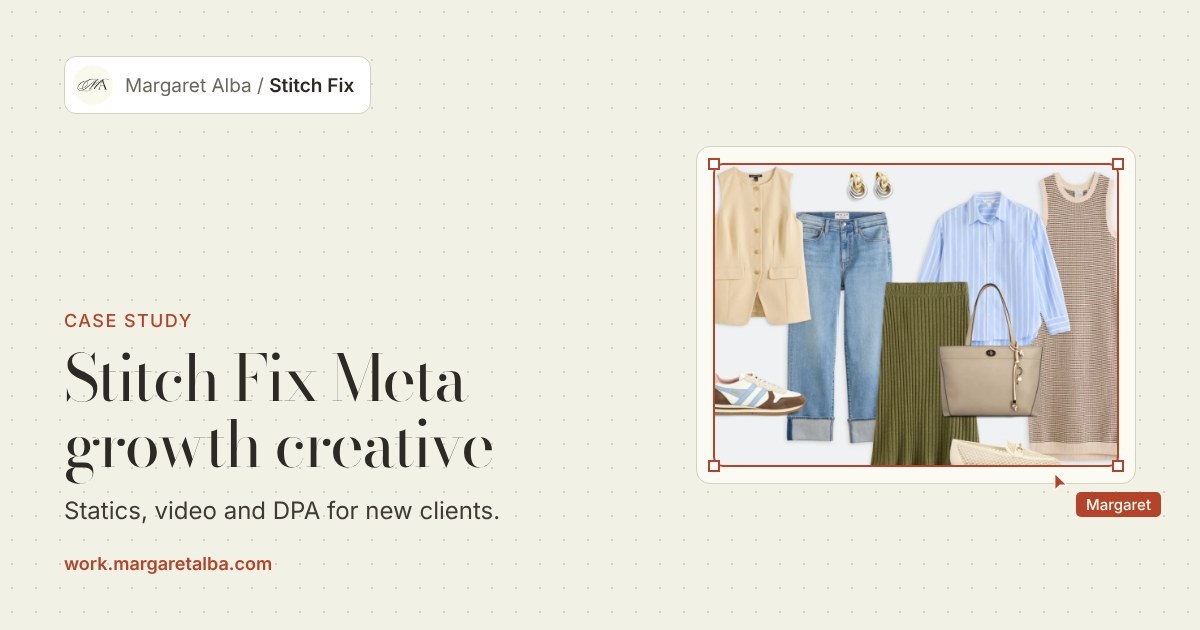
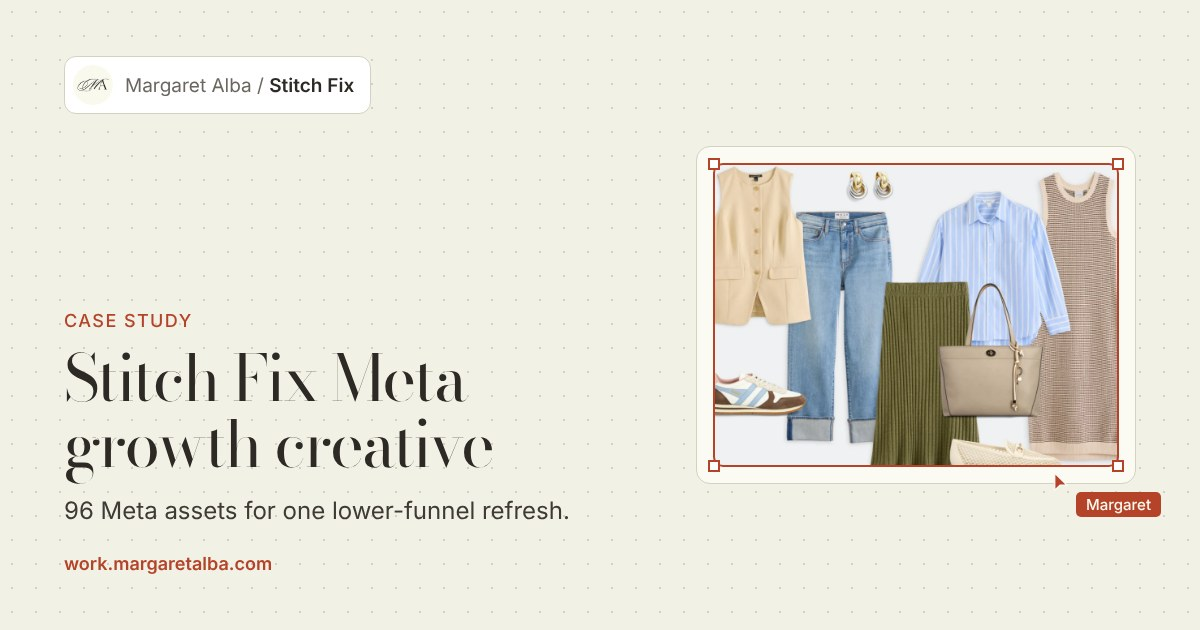
Stitch Fix: 96 assets, lower-funnel refresh, copywriter credit
Claude-Session: https://claude.ai/code/session_01Bp2y4MwKfvAmLHEs5SbnWi

Changed region(s): [[0.0617, 0.7841, 0.4625, 0.8444]]

diff --git a/stitch-fix-meta/index.html b/stitch-fix-meta/index.html
@@ -4,9 +4,9 @@
 <meta charset="utf-8">
 <meta name="viewport" content="width=device-width, initial-scale=1">
 <title>Stitch Fix Meta Growth Creative | Margaret Alba</title>
-<meta name="description" content="Static and video Meta ads, DPA and non-DPA assets for Stitch Fix.">
+<meta name="description" content="96 Meta assets refreshing Stitch Fix’s lower-funnel creative, static and animated, in 4:5 and 9:16.">
 <meta property="og:title" content="Stitch Fix Meta Growth Creative | Margaret Alba">
-<meta property="og:description" content="Static and video Meta ads, DPA and non-DPA assets for Stitch Fix.">
+<meta property="og:description" content="96 Meta assets refreshing Stitch Fix’s lower-funnel creative, static and animated, in 4:5 and 9:16.">
 <meta property="og:type" content="website">
 <link rel="canonical" href="https://work.margaretalba.com/stitch-fix-meta/">
 <meta property="og:url" content="https://work.margaretalba.com/stitch-fix-meta/">
@@ -88,7 +88,7 @@ div[style*="repeat(4,1fr)"]{grid-template-columns:repeat(2,1fr)!important}
 <div style="display:flex;flex-direction:column;gap:20px;max-width:820px">
 <div class="ey">Case study 02</div>
 <h1 class="bd" style="margin:0;font-size:72px;line-height:1.02;letter-spacing:-.03em">Stitch Fix Meta Growth Creative</h1>
-<p style="margin:0;font-size:22px;line-height:1.5;color:#3E3A34">Meta ads for Stitch Fix’s women’s and men’s lines, from statics and video to dynamic product ads. Everything shown here is from one campaign.</p>
+<p style="margin:0;font-size:22px;line-height:1.5;color:#3E3A34">I designed 96 Meta assets for one Stitch Fix campaign, refreshing the lower-funnel creative for the women’s and men’s lines.</p>
 </div>
 
 <div style="display:flex;flex-wrap:wrap;gap:56px;align-items:flex-start">
@@ -96,21 +96,22 @@ div[style*="repeat(4,1fr)"]{grid-template-columns:repeat(2,1fr)!important}
 <aside style="flex:0 0 240px;position:sticky;top:24px;display:flex;flex-direction:column;gap:28px;background:#fff;border:1px solid #D5D1C0;border-radius:12px;padding:16px">
 <div><div style="font-size:12px;font-weight:600;margin-bottom:8px">Layers</div><nav class="ly" aria-label="On this page" style="display:flex;flex-direction:column;gap:2px"><a class="on" href="#ch"><i></i>The challenge</a><a href="#ap"><i></i>The approach</a><a href="#wk"><i></i>What I made</a><a href="#ln"><i></i>What I learned</a></nav></div>
 <div style="border-top:1px solid #E5E1D0;padding-top:16px"><div style="font-size:12px;font-weight:600;margin-bottom:12px">Properties</div>
-<dl class="pr" style="margin:0;display:flex;flex-direction:column;gap:14px"><div><dt>Client</dt><dd>Stitch Fix</dd></div><div><dt>Responsible for</dt><dd>Meta DPA and non-DPA assets, social video and on-time delivery</dd></div><div><dt>Tools</dt><dd>Figma, After Effects</dd></div></dl></div>
+<dl class="pr" style="margin:0;display:flex;flex-direction:column;gap:14px"><div><dt>Client</dt><dd>Stitch Fix</dd></div><div><dt>Copywriter</dt><dd>Emily Saulnier</dd></div><div><dt>Responsible for</dt><dd>Meta DPA and non-DPA assets, social video and on-time delivery</dd></div><div><dt>Tools</dt><dd>Figma, After Effects</dd></div></dl></div>
 </aside>
 
 <main style="flex:1 1 560px;max-width:760px;display:flex;flex-direction:column;gap:80px">
 
-<section id="ch" style="display:flex;flex-direction:column;gap:14px"><div class="ey">The challenge</div><p class="p" style="font-size:20px">Stitch Fix is an online styling service. On Meta, the ads need to bring in new clients, speak to women and men differently and keep up with a busy promo calendar.</p></section>
+<section id="ch" style="display:flex;flex-direction:column;gap:14px"><div class="ey">The challenge</div><p class="p" style="font-size:20px">Stitch Fix is an online styling service. This campaign refreshed its lower-funnel Meta ads, the ones people see when they already know Stitch Fix and are close to signing up. The ads had to speak to women and men differently and keep up with a busy promo calendar.</p></section>
 
 <section id="ap" style="display:flex;flex-direction:column;gap:28px"><div class="ey">The approach</div>
 <div><div class="bd sh">One offer, always visible.</div><p class="p">New clients scroll fast. Keeping the same “$20 off your first Fix” badge on every ad means the offer lands even if someone only gives it a second.</p></div>
-<div><div class="bd sh">Different hooks, same offer.</div><p class="p">Different people stop scrolling for different reasons. Leading each ad with its own angle gives it a different way in, while the offer stays the same.</p></div>
+<div><div class="bd sh">Different hooks, same offer.</div><p class="p">Different people stop scrolling for different reasons, so each ad leads with its own angle while the offer stays the same. I worked with Stitch Fix copywriter Emily Saulnier, building a visual to match each of her lines.</p></div>
 <div><div class="bd sh">Speaking to each audience.</div><p class="p">Women and men shop differently, so their ads shouldn’t look the same. Each line gets visuals built around how that audience likes to see clothes.</p></div>
 <div><div class="bd sh">Keeping it on schedule.</div><p class="p">Promos don’t wait. I keep my work moving through reviews so every asset is ready by its launch date.</p></div>
 </section>
 
 <section id="wk" style="display:flex;flex-direction:column;gap:32px"><div class="ey">What I made</div>
+<div style="display:grid;grid-template-columns:repeat(auto-fit,minmax(200px,1fr));gap:16px"><div class="fm" style="background:#fff;display:flex;flex-direction:column;gap:4px;padding:22px 24px"><div class="bd" style="font-size:60px;line-height:1;color:#B54329">96</div><div style="font-size:14px;color:#6B665E">Meta assets in one campaign</div></div><div class="fm" style="background:#fff;display:flex;flex-direction:column;gap:4px;padding:22px 24px"><div class="bd" style="font-size:34px;line-height:60px;color:#B54329;white-space:nowrap">4:5 &amp; 9:16</div><div style="font-size:14px;color:#6B665E">Feed, Stories and Reels sizes</div></div><div class="fm" style="background:#fff;display:flex;flex-direction:column;gap:4px;padding:22px 24px"><div class="bd" style="font-size:34px;line-height:60px;color:#B54329;white-space:nowrap">+ Motion</div><div style="font-size:14px;color:#6B665E">Static and animated versions</div></div></div>
 <div><div class="fl"><span>Meta static ads, one campaign</span><span>01</span></div><div class="fm" style="padding:10px;background:#fff"><div style="display:grid;grid-template-columns:repeat(4,1fr);gap:8px"><img loading="lazy" decoding="async" src="/assets/img/stitch-fix-1.webp" alt="Spring Style Made Easy: a striped dress with accessories beside the model wearing it, with a $20 off your first Fix badge."><img loading="lazy" decoding="async" src="/assets/img/stitch-fix-2.webp" alt="Side effects may include compliments: a flat lay of spring pieces with the $20 off badge."><img loading="lazy" decoding="async" src="/assets/img/stitch-fix-3.webp" alt="Big plus Tall is here: men’s jacket, polo, jeans and sneakers around a smiling model."><img loading="lazy" decoding="async" src="/assets/img/stitch-fix-4.webp" alt="All style, no risk: folded men’s clothing and a Stitch Fix box with the $20 off badge."></div></div></div>
 <div><div class="fl"><span>Meta video ads</span><span>02</span></div><div class="fm" style="background:#fff"><div style="display: grid; grid-template-columns: repeat(4,1fr); gap: 10px; align-items: start; position: relative"><video src="/assets/video/stitch-fix-5.mp4" poster="/assets/img/stitch-fix-6.webp" autoplay="" muted="" loop="" playsinline="" preload="metadata" aria-label="Women’s Meta video ad, vertical" style="display:block;width:100%;height:auto;border-radius:8px;background:#E9E1D2"></video><video src="/assets/video/stitch-fix-7.mp4" poster="/assets/img/stitch-fix-8.webp" autoplay="" muted="" loop="" playsinline="" preload="metadata" aria-label="Women’s Meta video ad, vertical" style="display:block;width:100%;height:auto;border-radius:8px;background:#E9E1D2"></video><video src="/assets/video/stitch-fix-video-3.mp4" autoplay="" muted="" loop="" playsinline="" preload="metadata" aria-label="Meta video ad, vertical" style="display:block;width:100%;height:auto;border-radius:8px;background:#E9E1D2"></video><video src="/assets/video/stitch-fix-video-4.mp4" autoplay="" muted="" loop="" playsinline="" preload="metadata" aria-label="Meta video ad, vertical" style="display:block;width:100%;height:auto;border-radius:8px;background:#E9E1D2"></video></div></div></div>
 <p class="cap" style="margin:0">Behind these, I design the DPA and non-DPA assets for both the women’s and men’s lines.</p>

diff --git a/index.html b/index.html
@@ -128,7 +128,7 @@ div[style*="repeat(4,1fr)"]{grid-template-columns:repeat(2,1fr)!important}
 
 <a class="fr" href="/stitch-fix-meta">
 <div style="display:flex;justify-content:space-between;font-size:12px;color:#6B665E"><span>Stitch Fix Meta Growth Creative</span><span>02</span></div>
-<div style="background:#FBFAF3;border:1px solid #D5D1C0;border-radius:12px;padding:16px;display:flex;flex-direction:column;gap:20px"><div class="ph" style="aspect-ratio:4/3;position:relative"><img loading="lazy" decoding="async" src="/assets/img/thumb-stitch-fix.webp" alt="A styled spring outfit flat lay: a cream vest, cuffed jeans, a blue striped shirt, an olive skirt, a knit dress, a tote and sneakers." style="display:block;width:100%;height:100%;object-fit:cover;border-radius:10px"><div aria-hidden="true" style="position:absolute;inset:0;border:2px solid #B54329;border-radius:10px;pointer-events:none"><i class="hn" style="left:-6px;top:-6px"></i><i class="hn" style="right:-6px;top:-6px"></i><i class="hn" style="left:-6px;bottom:-6px"></i><i class="hn" style="right:-6px;bottom:-6px"></i><span style="position:absolute;left:12px;bottom:12px;background:#F9F9EE;border:1px solid #D5D1C0;border-radius:6px;padding:4px 10px;font-size:12px;font-weight:500;color:#2D2A25">Stitch Fix · Meta ads</span></div></div><div style="padding:0 8px 8px;display:flex;flex-direction:column;gap:14px"><div class="ct bd" style="font-size:28px;line-height:1.12;transition:color .2s">Meta ads for Stitch Fix, across statics, video and DPA.</div><div style="display:flex;flex-wrap:wrap;gap:8px"><span class="chip">Meta DPA</span><span class="chip">Video</span><span class="chip">Statics</span></div></div></div>
+<div style="background:#FBFAF3;border:1px solid #D5D1C0;border-radius:12px;padding:16px;display:flex;flex-direction:column;gap:20px"><div class="ph" style="aspect-ratio:4/3;position:relative"><img loading="lazy" decoding="async" src="/assets/img/thumb-stitch-fix.webp" alt="A styled spring outfit flat lay: a cream vest, cuffed jeans, a blue striped shirt, an olive skirt, a knit dress, a tote and sneakers." style="display:block;width:100%;height:100%;object-fit:cover;border-radius:10px"><div aria-hidden="true" style="position:absolute;inset:0;border:2px solid #B54329;border-radius:10px;pointer-events:none"><i class="hn" style="left:-6px;top:-6px"></i><i class="hn" style="right:-6px;top:-6px"></i><i class="hn" style="left:-6px;bottom:-6px"></i><i class="hn" style="right:-6px;bottom:-6px"></i><span style="position:absolute;left:12px;bottom:12px;background:#F9F9EE;border:1px solid #D5D1C0;border-radius:6px;padding:4px 10px;font-size:12px;font-weight:500;color:#2D2A25">Stitch Fix · Meta ads</span></div></div><div style="padding:0 8px 8px;display:flex;flex-direction:column;gap:14px"><div class="ct bd" style="font-size:28px;line-height:1.12;transition:color .2s">96 Meta ads refreshing Stitch Fix’s lower-funnel creative.</div><div style="display:flex;flex-wrap:wrap;gap:8px"><span class="chip">Meta DPA</span><span class="chip">Video</span><span class="chip">Statics</span></div></div></div>
 <div class="sel" aria-hidden="true"><i class="hn" style="left:-6px;top:-6px"></i><i class="hn" style="right:-6px;top:-6px"></i><i class="hn" style="left:-6px;bottom:-6px"></i><i class="hn" style="right:-6px;bottom:-6px"></i></div>
 </a>
 
